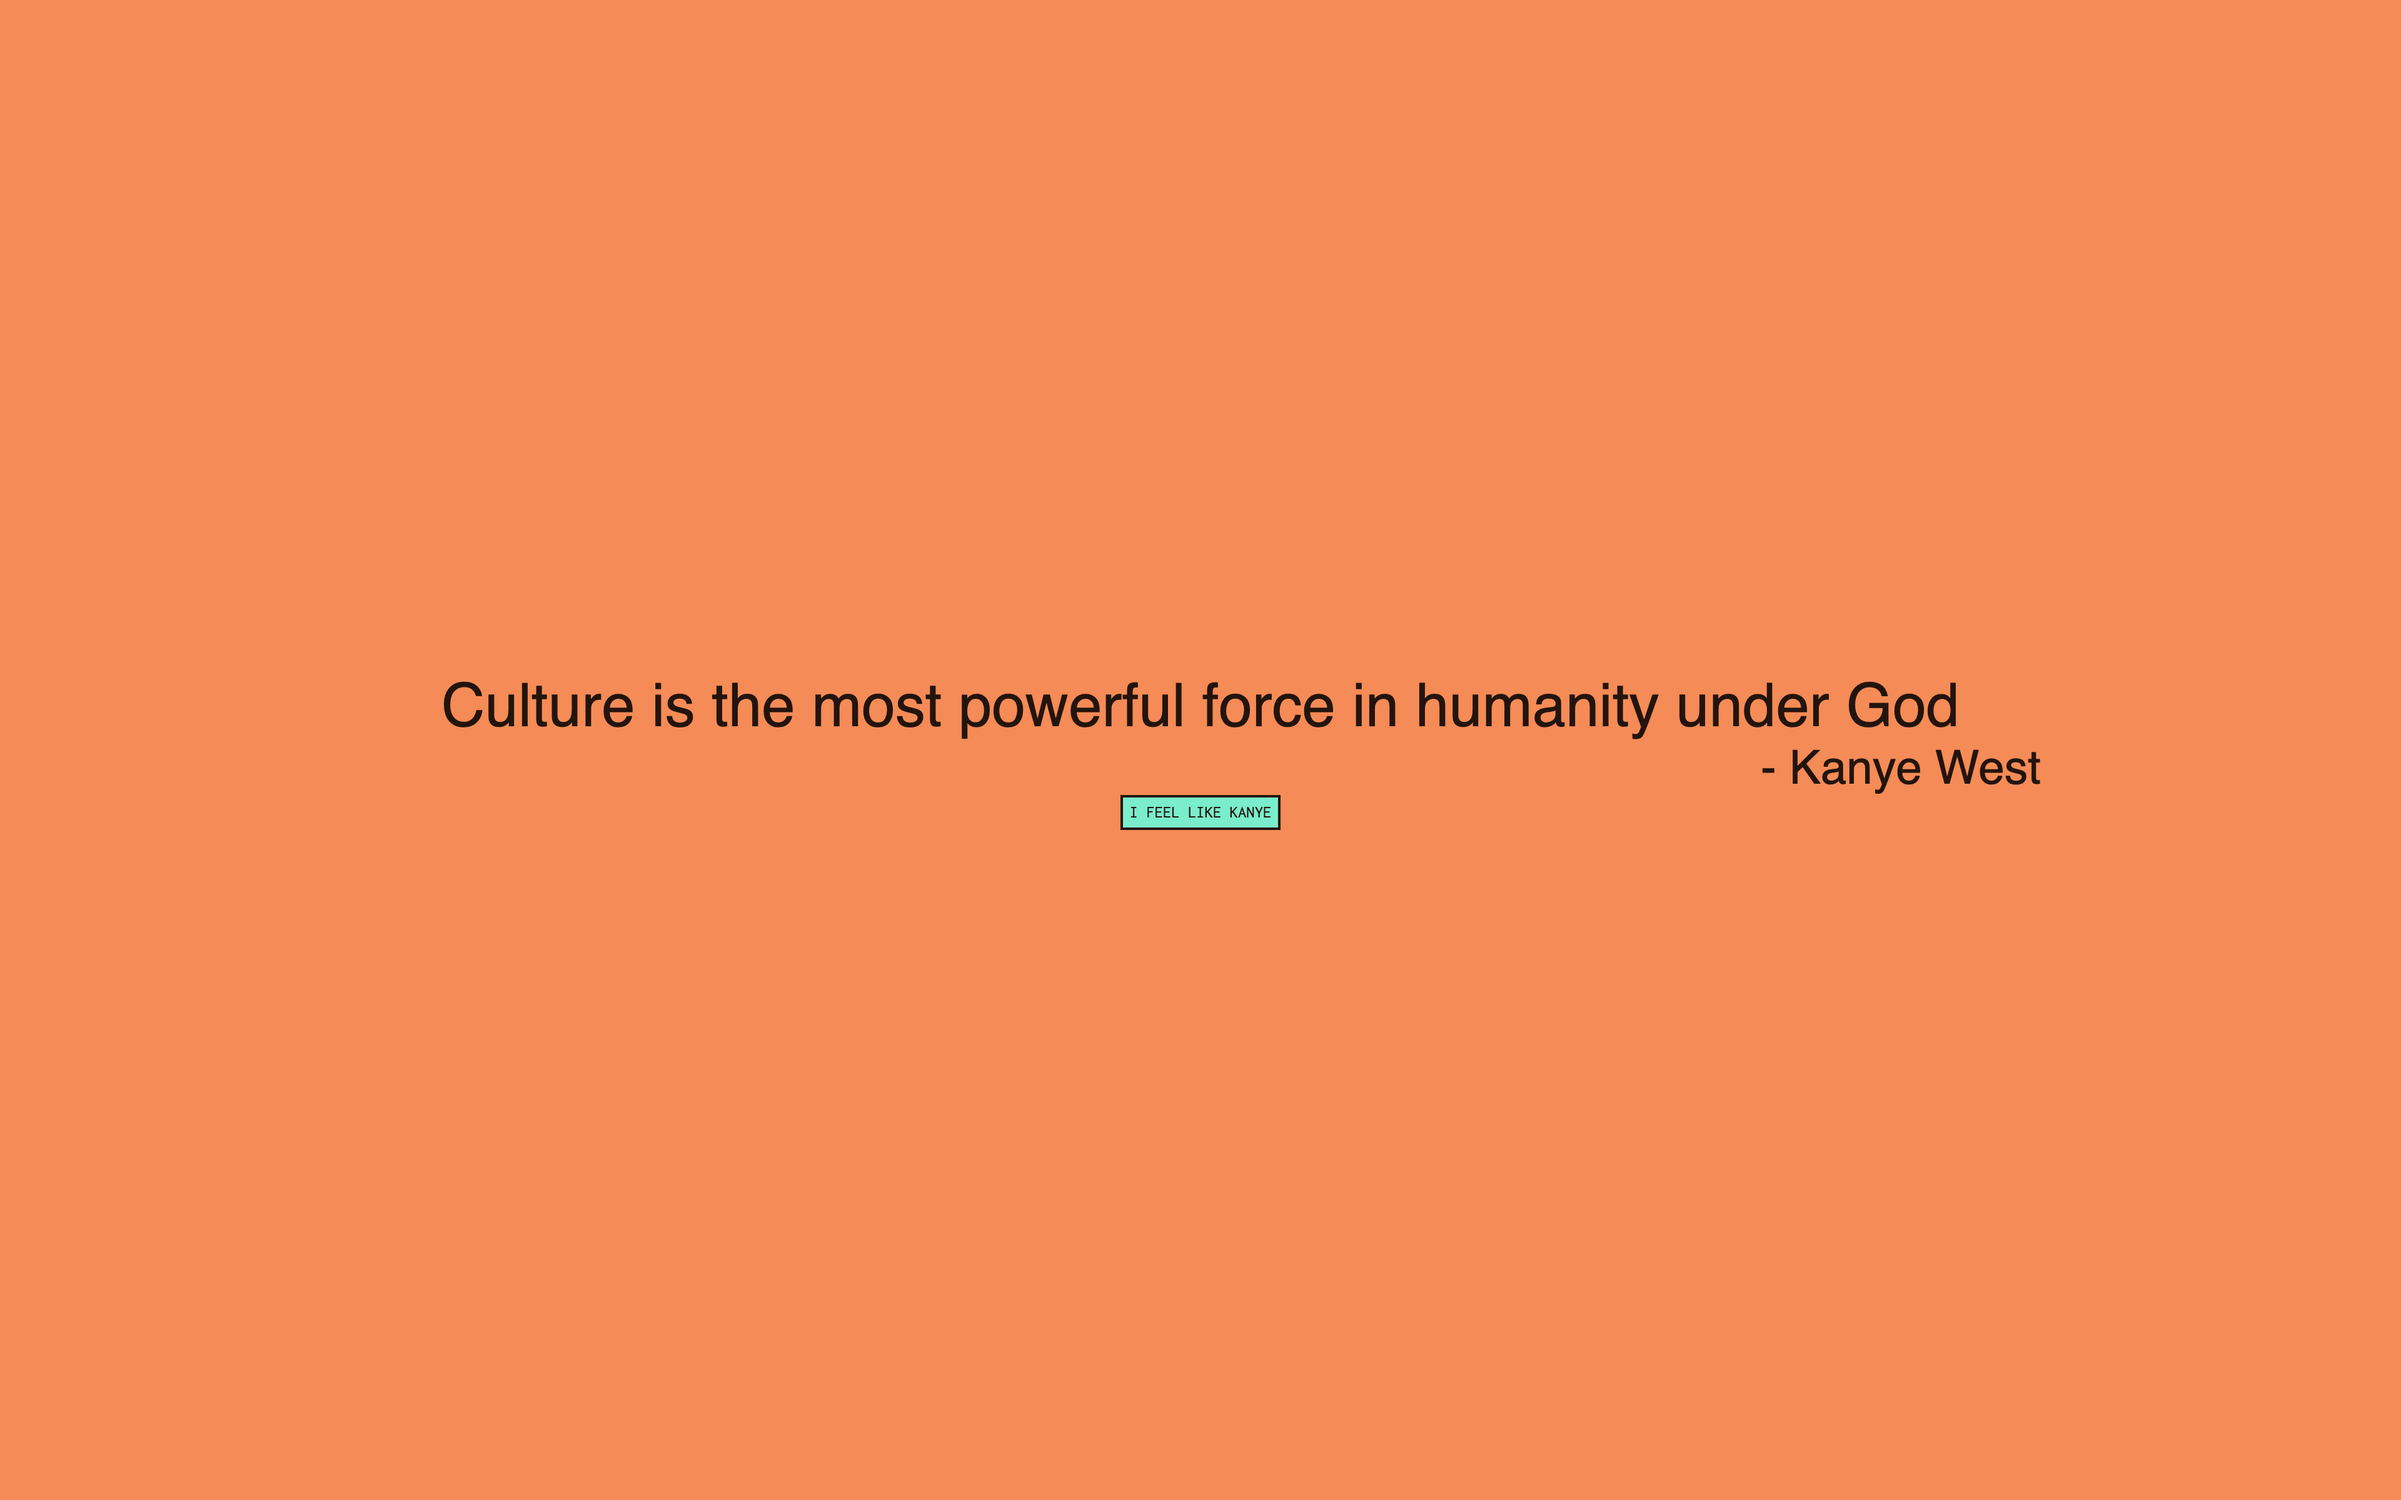
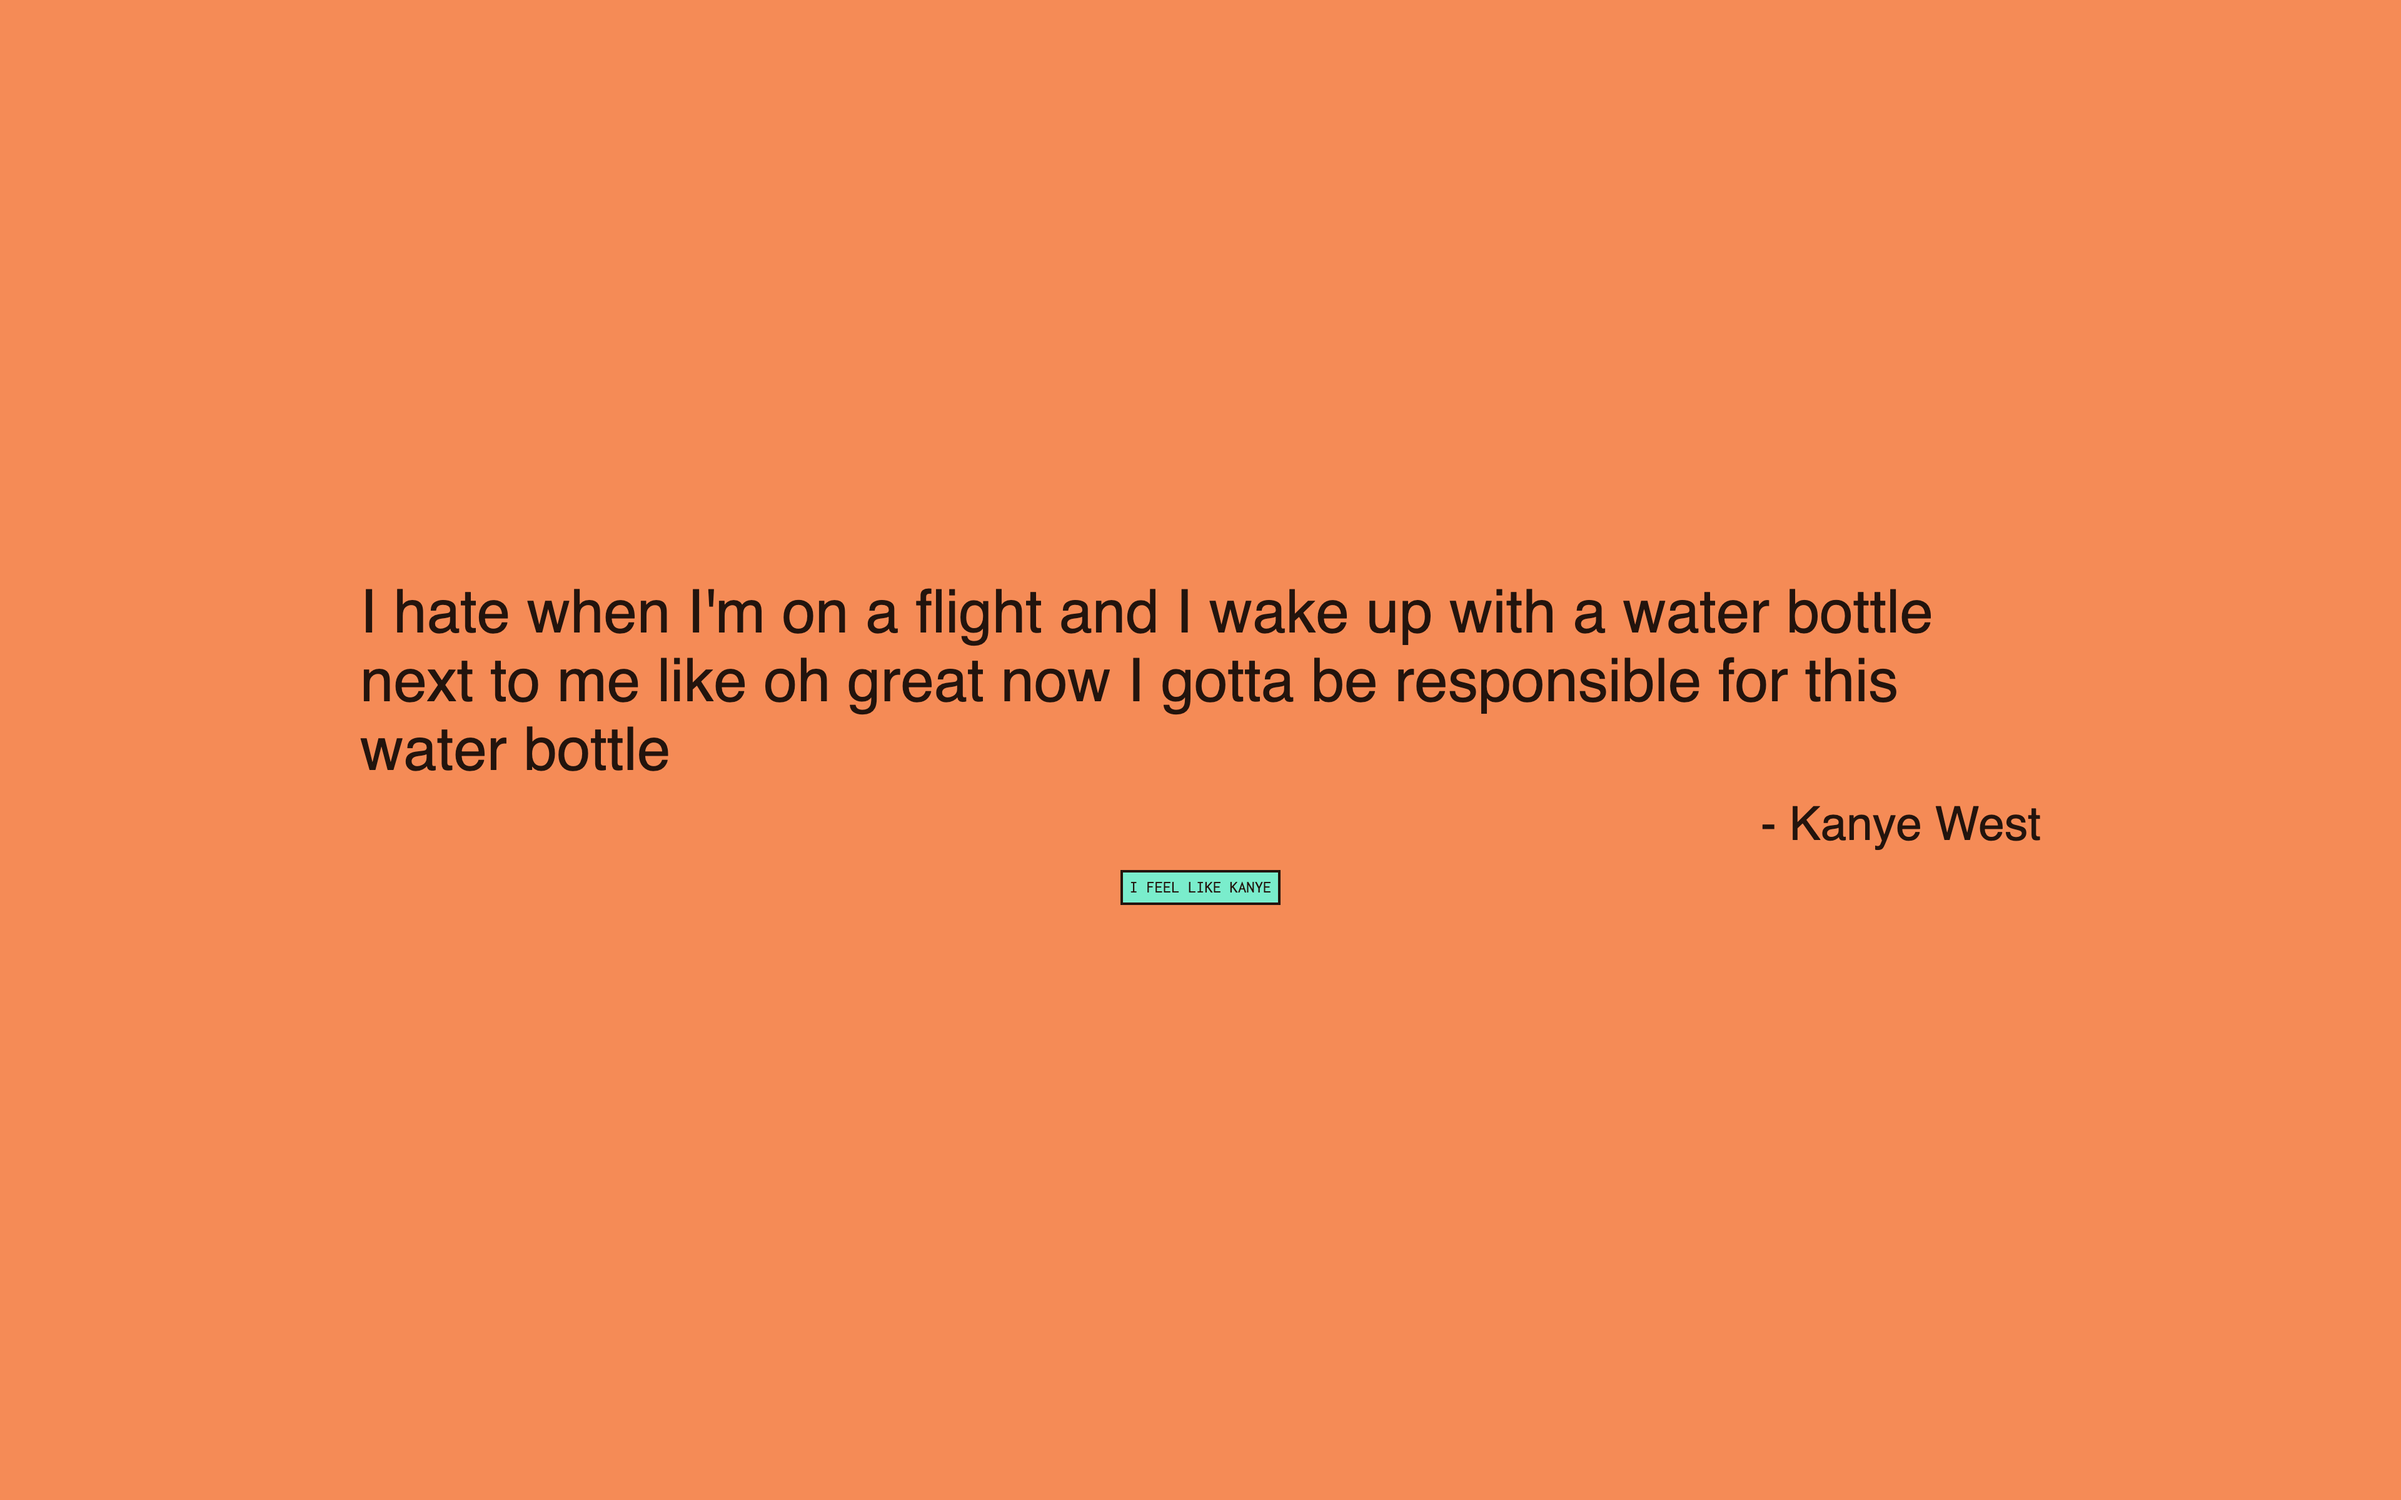
Fix dimension responsiveness

Changed region(s): [[0.1562, 0.375, 0.8438, 0.5625], [0.4688, 0.5312, 0.5312, 0.625]]

diff --git a/main.css b/main.css
@@ -27,10 +27,12 @@ button {
   padding: 5px;
   font-family: 'Inconsolata', sans-serif;
   transition: 0.3s;
+  margin: 15px;
 }
 
 button:hover {
   background-color: var(--secondary);
+  color: var(--accent);
 }
 
 .main {
@@ -42,12 +44,24 @@ button:hover {
   border-radius: 10px;
 }
 
+@media only screen and (max-width: 768px) {
+  .main {
+    height: 85vh;
+  }
+
+  h2,
+  h3 {
+    font-size: 6vw;
+  }
+}
+
 #window {
   display: flex;
   flex-direction: column;
   align-items: center;
   justify-content: center;
   width: 70%;
+  height: 70%;
 }
 
 #kanye {
@@ -55,6 +69,7 @@ button:hover {
   height: auto;
   width: auto;
   align-self: flex-end;
+  margin-top: 10px;
 }
 
 .pablo {

diff --git a/README.md b/README.md
@@ -1,5 +1,5 @@
 # I Feel Like Kanye
 
 ![Kanye](/screenshot.png)
-A simple project that uses https://kanye.rest/ API. Built with HTML, CSS, Javascript and Axios.
-Color's inspired by Kanye West's album covers.
+A project that uses [Kanye Rest](https://kanye.rest/) API. Built with HTML, CSS, Javascript and Axios.
+Theme colors inspired by Kanye West's album covers.
